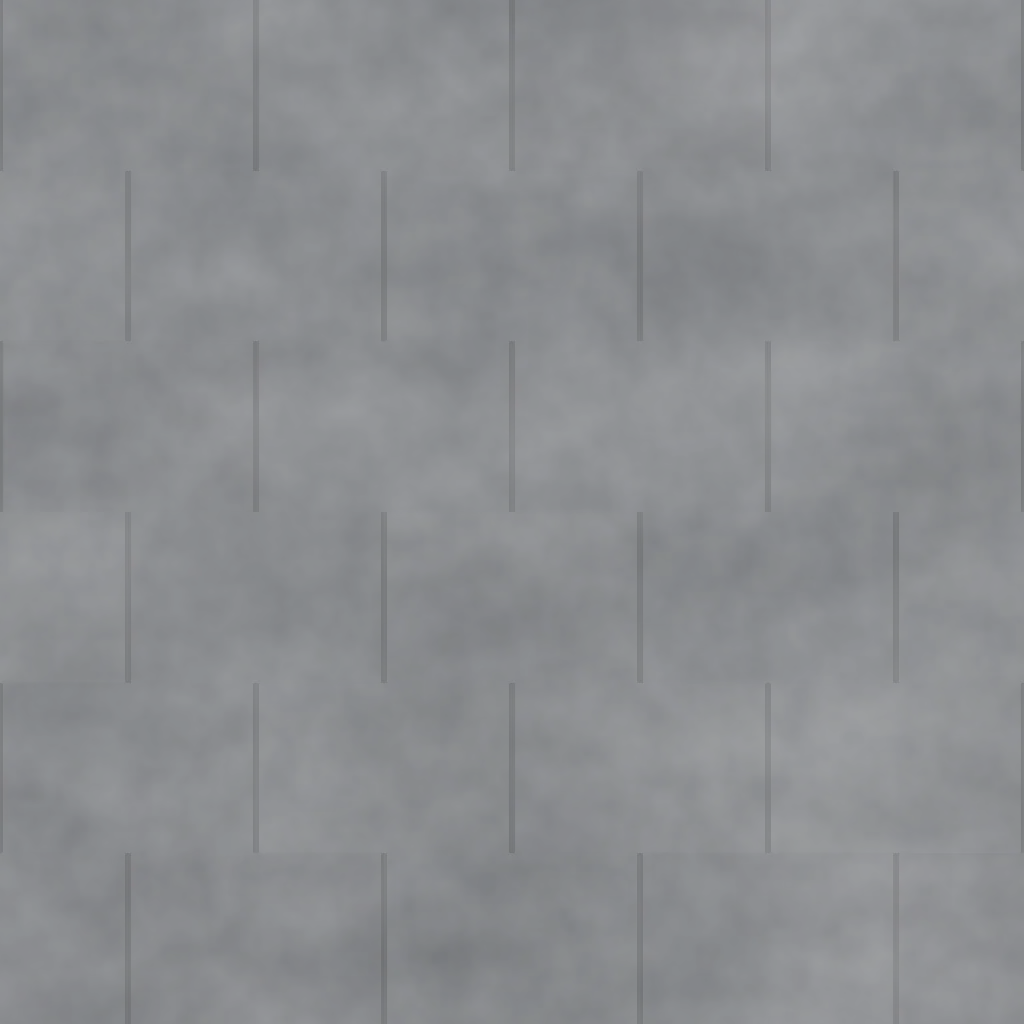
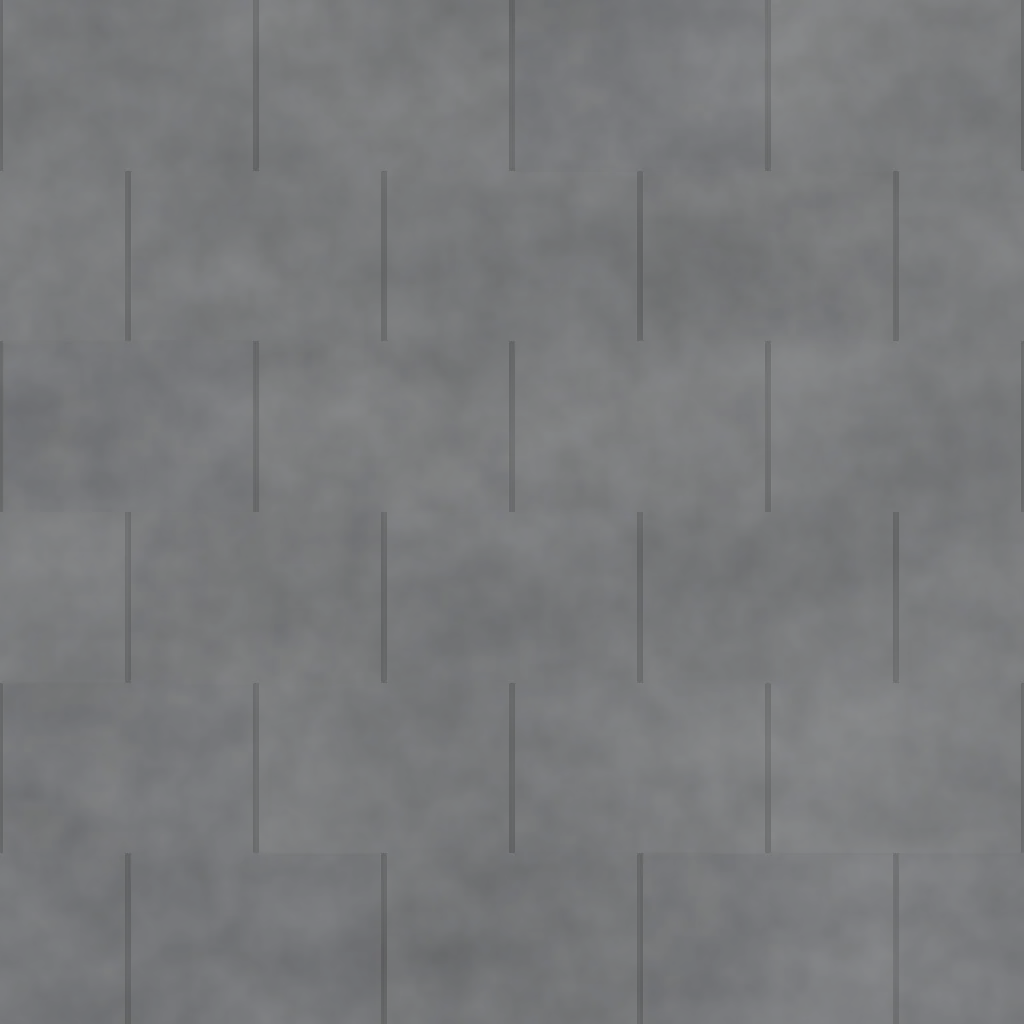
Reitweg 25 model: sky-light volume, neutral roofs, lined roof walls
- Replace per-vertex sky visibility with a 0.5 m SH probe volume baked on the GPU (no geometry changes, no seams)
- Desaturate environment sky and add ground bounce so shade reads neutral, not blue
- Regenerate slate roof texture in neutral grey with rougher finish
- Line sloped roof walls with plaster on the room side
- Smaller, denser leaf cards
- Upstairs eye-level view leans out of the open roof window instead of sitting on the glass

Claude-Session: https://claude.ai/code/session_011BLuECxSQ2TbTvGPyscWnK

Changed region(s): [[0.75, 0.0, 0.7812, 0.0312]]

diff --git a/projects/2026-09-reitweg-25/lib/house-model/sky-visibility.ts b/projects/2026-09-reitweg-25/lib/house-model/sky-visibility.ts
@@ -1,119 +1,102 @@
 import * as T from 'three';
-import {TessellateModifier} from 'three/addons/modifiers/TessellateModifier.js';
 import {addShaderFeature,after,materialsOf} from './shader-features';
 
-/** Precomputed sky light for the house. For each of 48 directions the building is drawn
- * into a depth map; every vertex then tests whether it sees the sky that way, weighted by
- * the cosine to its normal. The sum lives in a texture that materials read per vertex, so
- * rooms under a roof receive less sky light than a terrace, and corners less than a floor's
- * centre. Direct sun and its shadows stay live; this replaces only sky (image-based) light. */
-const DIRECTIONS=48,PER_FRAME=8,EXTENT=46,MAP=2048,WIDTH=2048;
-const AREA=new T.Box3(new T.Vector3(-42,-4,-30),new T.Vector3(34,12,40));
+/** Precomputed sky light around the house. A 0.5 m grid of probes covers the buildings;
+ * for 48 directions the building is drawn into a depth map and every probe records whether
+ * it sees the sky that way. Each probe keeps that visibility as a constant plus a direction
+ * (first-order spherical harmonics), so a surface receives sky light according to its
+ * normal: a floor under a roof far less than a terrace, a wall beside a window more than
+ * one facing a corridor. Direct sun and its shadows stay live; this scales only sky light.
+ * Geometry is untouched, so there are no seams or cracks. */
+const DIRECTIONS=48,PER_FRAME=6,CELL=.5,MAP=2048;
+const BOX=new T.Box3(new T.Vector3(-27,-3,-11),new T.Vector3(8,8.5,21));
 // Light bounced between walls, floors and furniture keeps enclosed rooms from reading as black.
-const BOUNCE=.2;
+const BOUNCE=.18;
 
-export function bakeSkyVisibility(renderer:T.WebGLRenderer,batches:T.Mesh[]){
- const receivers=batches.filter(b=>{
-  const box=b.geometry.boundingBox;if(!box||!AREA.intersectsBox(box))return false;
-  return materialsOf(b).every(m=>m instanceof T.MeshStandardMaterial&&!m.transparent&&m.userData.photo!=='lawn');
- });
- // Long edges get extra vertices so light can vary across a floor or wall.
- const tessellate=new TessellateModifier(.9,6);
- for(const b of receivers){
-  const box=b.geometry.boundingBox!,extent=box.getSize(new T.Vector3());
-  if(Math.max(extent.x,extent.y,extent.z)<1.2)continue;
-  const g=tessellate.modify(b.geometry);g.computeBoundingBox();g.computeBoundingSphere();b.geometry.dispose();b.geometry=g;
+export function bakeSkyVisibility(renderer:T.WebGLRenderer,occluders:T.Mesh[],receivers:T.Object3D[]){
+ const size=BOX.getSize(new T.Vector3()),nx=Math.round(size.x/CELL),ny=Math.round(size.y/CELL),nz=Math.round(size.z/CELL);
+ // Texture axes: width = x, height = z, layers = y.
+ const volumes=[0,1].map(()=>{const v=new T.WebGL3DRenderTarget(nx,nz,ny,{type:T.HalfFloatType,depthBuffer:false});v.texture.minFilter=v.texture.magFilter=T.LinearFilter;v.texture.wrapS=v.texture.wrapT=v.texture.wrapR=T.ClampToEdgeWrapping;return v;});
+ const probes=new Float32Array(nx*ny*nz*3),cells=new Float32Array(nx*ny*nz*2);
+ for(let j=0,k=0;j<ny;j++)for(let z=0;z<nz;z++)for(let x=0;x<nx;x++,k++){
+  probes.set([BOX.min.x+(x+.5)*CELL,BOX.min.y+(j+.5)*CELL,BOX.min.z+(z+.5)*CELL],k*3);cells.set([x,z],k*2);
  }
- const count=receivers.reduce((n,b)=>n+b.geometry.attributes.position.count,0),height=Math.max(1,Math.ceil(count/WIDTH));
- const positions=new Float32Array(count*3),normals=new Float32Array(count*3),texels=new Float32Array(count*2);
- let offset=0;
- for(const b of receivers){
-  const p=b.geometry.attributes.position,n=b.geometry.attributes.normal,t=new Float32Array(p.count*2);
-  b.updateMatrixWorld();const nm=new T.Matrix3().getNormalMatrix(b.matrixWorld),v=new T.Vector3();
-  for(let i=0;i<p.count;i++){
-   const k=offset+i;t[i*2]=k%WIDTH;t[i*2+1]=Math.floor(k/WIDTH);texels.set([t[i*2],t[i*2+1]],k*2);
-   v.fromBufferAttribute(p,i).applyMatrix4(b.matrixWorld);positions.set([v.x,v.y,v.z],k*3);
-   v.fromBufferAttribute(n,i).applyMatrix3(nm).normalize();normals.set([v.x,v.y,v.z],k*3);
-  }
-  b.geometry.setAttribute('skyTexel',new T.BufferAttribute(t,2));
-  offset+=p.count;
- }
- const points=new T.BufferGeometry();
- points.setAttribute('position',new T.BufferAttribute(positions,3));points.setAttribute('normal',new T.BufferAttribute(normals,3));points.setAttribute('skyTexel',new T.BufferAttribute(texels,2));
- const results=[0,1].map(()=>new T.WebGLRenderTarget(WIDTH,height,{type:T.HalfFloatType,depthBuffer:false,minFilter:T.NearestFilter,magFilter:T.NearestFilter}));
+ const grid=new T.BufferGeometry();grid.setAttribute('position',new T.BufferAttribute(probes,3));grid.setAttribute('cell',new T.BufferAttribute(cells,2));
  const depth=new T.WebGLRenderTarget(MAP,MAP,{depthTexture:new T.DepthTexture(MAP,MAP,T.FloatType)});
- const eye=new T.OrthographicCamera(-EXTENT,EXTENT,EXTENT,-EXTENT,1,260);eye.layers.set(2);
- const center=AREA.getCenter(new T.Vector3()),blocker=new T.MeshBasicMaterial({colorWrite:false,side:T.DoubleSide});
+ const extent=size.length()/2+1,eye=new T.OrthographicCamera(-extent,extent,extent,-extent,1,extent*2+60);eye.layers.set(2);
+ const center=BOX.getCenter(new T.Vector3()),blocker=new T.MeshBasicMaterial({colorWrite:false,side:T.DoubleSide});
  const accumulate=new T.ShaderMaterial({
-  uniforms:{depthMap:{value:depth.depthTexture},lightMatrix:{value:new T.Matrix4()},direction:{value:new T.Vector3()},resolution:{value:new T.Vector2(WIDTH,height)}},
-  vertexShader:`attribute vec2 skyTexel;uniform mat4 lightMatrix;uniform vec2 resolution;uniform vec3 direction;varying vec3 vLight;varying float vWeight;
-   void main(){
-    vec4 l=lightMatrix*vec4(position+normal*0.06,1.0);vLight=l.xyz/l.w*0.5+0.5;
-    vWeight=max(dot(normal,direction),0.0);
-    gl_Position=vec4((skyTexel+0.5)/resolution*2.0-1.0,0.0,1.0);gl_PointSize=1.0;
-   }`,
-  fragmentShader:`uniform sampler2D depthMap;varying vec3 vLight;varying float vWeight;
+  uniforms:{depthMap:{value:depth.depthTexture},lightMatrix:{value:new T.Matrix4()},direction:{value:new T.Vector3()},resolution:{value:new T.Vector2(nx,nz)}},
+  vertexShader:`attribute vec2 cell;uniform mat4 lightMatrix;uniform vec2 resolution;varying vec3 vLight;
+   void main(){vec4 l=lightMatrix*vec4(position,1.0);vLight=l.xyz/l.w*0.5+0.5;gl_Position=vec4((cell+0.5)/resolution*2.0-1.0,0.0,1.0);gl_PointSize=1.0;}`,
+  fragmentShader:`uniform sampler2D depthMap;uniform vec3 direction;varying vec3 vLight;
    void main(){
     bool inside=all(greaterThan(vLight.xy,vec2(0.0)))&&all(lessThan(vLight.xy,vec2(1.0)));
-    float lit=(!inside||vLight.z<=texture2D(depthMap,vLight.xy).r+0.0015)?1.0:0.0;
-    gl_FragColor=vec4(lit*vWeight,vWeight,0.0,1.0);
+    float lit=(!inside||vLight.z<=texture2D(depthMap,vLight.xy).r+0.001)?1.0:0.0;
+    gl_FragColor=vec4(lit,lit*direction);
    }`,
-  blending:T.CustomBlending,blendEquation:T.AddEquation,blendSrc:T.OneFactor,blendDst:T.OneFactor,depthTest:false,depthWrite:false,
+  blending:T.CustomBlending,blendEquation:T.AddEquation,blendSrc:T.OneFactor,blendDst:T.OneFactor,blendEquationAlpha:T.AddEquation,blendSrcAlpha:T.OneFactor,blendDstAlpha:T.OneFactor,depthTest:false,depthWrite:false,
  });
- const cloud=new T.Points(points,accumulate);cloud.frustumCulled=false;
- const pointScene=new T.Scene();pointScene.add(cloud);
- const pointCamera=new T.OrthographicCamera(-1,1,1,-1,0,1);
+ const cloud=new T.Points(grid,accumulate);cloud.frustumCulled=false;
+ const pointScene=new T.Scene();pointScene.add(cloud);const pointCamera=new T.OrthographicCamera(-1,1,1,-1,0,1);
  const directions=Array.from({length:DIRECTIONS},(_,i)=>{const y=1-2*(i+.5)/DIRECTIONS,r=Math.sqrt(1-y*y),a=i*2.399963;return new T.Vector3(Math.cos(a)*r,y,Math.sin(a)*r);});
- const uniform={value:results[0].texture as T.Texture},floor={value:BOUNCE};
+ const uniforms={uSkyVolume:{value:volumes[0].texture as T.Texture},uSkyMin:{value:BOX.min.clone()},uSkySize:{value:size.clone()},uSkyReady:{value:0},uSkyBounce:{value:BOUNCE}};
  const patched=new Set<T.Material>();
- for(const b of receivers)for(const m of materialsOf(b)){
-  if(patched.has(m))continue;patched.add(m);
+ for(const root of receivers)root.traverse(o=>{for(const m of materialsOf(o)){
+  if(patched.has(m)||!(m instanceof T.MeshStandardMaterial)||m.transparent)continue;patched.add(m);
   addShaderFeature(m,{key:'sky-visibility',compile:shader=>{
-   shader.uniforms.uSkyVisibility=uniform;shader.uniforms.uSkyFloor=floor;
-   shader.vertexShader='attribute vec2 skyTexel;uniform sampler2D uSkyVisibility;uniform float uSkyFloor;varying float vSkyVisibility;\n'+after(shader.vertexShader,'begin_vertex',`
-    vSkyVisibility=1.0;
-    if(skyTexel.x>=0.0){vec4 s=texelFetch(uSkyVisibility,ivec2(skyTexel),0);if(s.g>0.0)vSkyVisibility=mix(uSkyFloor,1.0,clamp(s.r/s.g,0.0,1.0));}`);
-   shader.fragmentShader='varying float vSkyVisibility;\n'+after(shader.fragmentShader,'lights_fragment_maps','iblIrradiance*=vSkyVisibility;irradiance*=vSkyVisibility;radiance*=mix(1.0,vSkyVisibility,0.85);');
+   Object.assign(shader.uniforms,uniforms);
+   shader.vertexShader='varying vec3 vSkyWorld;\n'+after(shader.vertexShader,'project_vertex',`
+    vec4 skyWorld=vec4(transformed,1.0);
+    #ifdef USE_INSTANCING
+     skyWorld=instanceMatrix*skyWorld;
+    #endif
+    vSkyWorld=(modelMatrix*skyWorld).xyz;`);
+   shader.fragmentShader=`uniform highp sampler3D uSkyVolume;uniform vec3 uSkyMin;uniform vec3 uSkySize;uniform float uSkyReady;uniform float uSkyBounce;varying vec3 vSkyWorld;\n`+after(shader.fragmentShader,'lights_fragment_maps',`
+    {
+     vec3 skyN=inverseTransformDirection(normal,viewMatrix);
+     vec3 skyUvw=(vSkyWorld+skyN*0.35-uSkyMin)/uSkySize;
+     float skyVisible=1.0;
+     if(uSkyReady>0.5&&all(greaterThan(skyUvw,vec3(0.0)))&&all(lessThan(skyUvw,vec3(1.0)))){
+      vec4 s=texture(uSkyVolume,skyUvw.xzy)/${DIRECTIONS.toFixed(1)};
+      skyVisible=mix(uSkyBounce,1.0,clamp(s.r+2.0*dot(s.gba,skyN),0.0,1.0));
+     }
+     iblIrradiance*=skyVisible;irradiance*=skyVisible;radiance*=mix(1.0,skyVisible,0.85);
+    }`);
   }});
- }
- // Any other mesh sharing a patched material reads "open sky".
- const fillOthers=(root:T.Object3D)=>root.traverse(o=>{
-  const mesh=o as T.Mesh;if(!mesh.isMesh||mesh.geometry.attributes.skyTexel)return;
-  if(materialsOf(mesh).some(m=>patched.has(m)))mesh.geometry.setAttribute('skyTexel',new T.BufferAttribute(new Float32Array(mesh.geometry.attributes.position.count*2).fill(-1),2));
- });
- let sceneRoot:T.Object3D|undefined=batches[0];while(sceneRoot?.parent)sceneRoot=sceneRoot.parent;if(sceneRoot)fillOthers(sceneRoot);
- const occluders=batches.filter(b=>materialsOf(b).every(m=>!m.transparent&&m.userData.photo!=='lawn'));
+ }});
  for(const o of occluders)o.layers.enable(2);
+ let world:T.Object3D|undefined=occluders[0];while(world?.parent)world=world.parent;
  let step=-1,write=1;
  const run=()=>{
-  if(!sceneRoot)return;
-  const world=sceneRoot as T.Scene;
-  const previousTarget=renderer.getRenderTarget(),previousAuto=renderer.autoClear,clear=renderer.getClearColor(new T.Color()),alpha=renderer.getClearAlpha(),shadowAuto=renderer.shadowMap.autoUpdate,needs=renderer.shadowMap.needsUpdate;
-  const override=world.overrideMaterial,background=world.background,fog=world.fog;
-  renderer.shadowMap.autoUpdate=false;renderer.shadowMap.needsUpdate=false;
-  if(step===0){renderer.setRenderTarget(results[write]);renderer.setClearColor(0x000000,0);renderer.clear(true,false,false);}
+  if(!(world instanceof T.Scene))return;
+  const target=renderer.getRenderTarget(),auto=renderer.autoClear,clear=renderer.getClearColor(new T.Color()),alpha=renderer.getClearAlpha();
+  const shadowNeeds=renderer.shadowMap.needsUpdate,override=world.overrideMaterial,background=world.background,fog=world.fog;
+  renderer.shadowMap.needsUpdate=false;renderer.setClearColor(0x000000,0);
+  if(step===0)for(let j=0;j<ny;j++){renderer.setRenderTarget(volumes[write],j);renderer.clear(true,false,false);}
   for(let i=0;i<PER_FRAME&&step<DIRECTIONS;i++,step++){
    const d=directions[step];
-   eye.position.copy(center).addScaledVector(d,130);eye.lookAt(center);eye.updateMatrixWorld();
+   eye.position.copy(center).addScaledVector(d,extent+30);eye.lookAt(center);eye.updateMatrixWorld();
    world.overrideMaterial=blocker;world.background=null;world.fog=null;
    renderer.setRenderTarget(depth);renderer.autoClear=true;renderer.render(world,eye);
    world.overrideMaterial=override;world.background=background;world.fog=fog;
    accumulate.uniforms.lightMatrix.value.multiplyMatrices(eye.projectionMatrix,eye.matrixWorldInverse);accumulate.uniforms.direction.value.copy(d);
-   renderer.setRenderTarget(results[write]);renderer.autoClear=false;renderer.render(pointScene,pointCamera);
+   renderer.autoClear=false;
+   for(let j=0;j<ny;j++){grid.setDrawRange(j*nx*nz,nx*nz);renderer.setRenderTarget(volumes[write],j);renderer.render(pointScene,pointCamera);}
   }
-  renderer.setRenderTarget(previousTarget);renderer.autoClear=previousAuto;renderer.setClearColor(clear,alpha);
-  renderer.shadowMap.autoUpdate=shadowAuto;renderer.shadowMap.needsUpdate=needs;
+  grid.setDrawRange(0,Infinity);
+  renderer.setRenderTarget(target);renderer.autoClear=auto;renderer.setClearColor(clear,alpha);renderer.shadowMap.needsUpdate=shadowNeeds;
  };
  return {
-  vertices:count,
+  probes:nx*ny*nz,
   request:()=>{step=0;},
   /** Advances a bake a few directions per frame; true when a finished result was swapped in. */
   update:()=>{
    if(step<0)return false;
    run();
    if(step<DIRECTIONS)return false;
-   uniform.value=results[write].texture;write=1-write;step=-1;return true;
+   uniforms.uSkyVolume.value=volumes[write].texture;uniforms.uSkyReady.value=1;write=1-write;step=-1;return true;
   },
-  dispose:()=>{results.forEach(r=>r.dispose());depth.dispose();points.dispose();accumulate.dispose();blocker.dispose();},
+  dispose:()=>{volumes.forEach(v=>v.dispose());depth.dispose();grid.dispose();accumulate.dispose();blocker.dispose();},
  };
 }

diff --git a/projects/2026-09-reitweg-25/lib/house-model/lighting.ts b/projects/2026-09-reitweg-25/lib/house-model/lighting.ts
@@ -55,8 +55,16 @@ export type LightReading=ReturnType<typeof sunStudyReading>&{exposure:number;dus
 export function createLighting(renderer:T.WebGLRenderer,scene:T.Scene,root:T.Object3D,options:{shadowSize:number}){
  const sky=new Sky();sky.name='calculated-sun-sky';sky.userData.skipPhotographic=true;sky.scale.setScalar(20000);sky.frustumCulled=false;scene.add(sky);
  const envSky=new Sky();envSky.scale.setScalar(20000);const envScene=new T.Scene();envScene.add(envSky);
+ // Image light: skylight is less saturated than the visible sky, and the ground below the
+ // horizon returns warm, green-tinted bounce light instead of Preetham's dark lower sphere.
+ const ground={value:new T.Color()},saturation={value:.55};
  for(const [s,disc] of [[sky,1],[envSky,0]] as const){
-  s.material.onBeforeCompile=shader=>{shader.fragmentShader=shader.fragmentShader.replace('gl_FragColor = vec4( texColor, 1.0 );',nightSky+'\ngl_FragColor = vec4( texColor, 1.0 );');};
+  const env=disc===0;
+  s.material.onBeforeCompile=shader=>{
+   if(env){shader.uniforms.uGround=ground;shader.uniforms.uEnvSaturation=saturation;shader.fragmentShader='uniform vec3 uGround;uniform float uEnvSaturation;\n'+shader.fragmentShader;}
+   shader.fragmentShader=shader.fragmentShader.replace('gl_FragColor = vec4( texColor, 1.0 );',nightSky+(env?'\ntexColor=mix(vec3(dot(texColor,vec3(0.2126,0.7152,0.0722))),texColor,uEnvSaturation);texColor=mix(texColor,uGround,smoothstep(0.0,-0.06,direction.y));':'')+'\ngl_FragColor = vec4( texColor, 1.0 );');
+  };
+  s.material.customProgramCacheKey=()=>env?'reitweg-env-sky':'reitweg-sky';
   const u=s.material.uniforms;u.turbidity.value=SKY.turbidity;u.rayleigh.value=SKY.rayleigh;u.mieCoefficient.value=SKY.mie;u.mieDirectionalG.value=SKY.g;u.showSunDisc.value=disc;u.cloudCoverage.value=SKY.clouds;u.cloudDensity.value=.35;}
  const cubeTarget=new T.WebGLCubeRenderTarget(128,{type:T.HalfFloatType}),cubeCamera=new T.CubeCamera(.1,40000,cubeTarget);
  const pmrem=new T.PMREMGenerator(renderer);let envTarget:T.WebGLRenderTarget|null=null,envDirty=true,envAt=0;
@@ -100,6 +108,8 @@ export function createLighting(renderer:T.WebGLRenderer,scene:T.Scene,root:T.Obj
   sun.position.copy(sun.target.position).addScaledVector(sunVector,160);
   sun.visible=sun.intensity>0;
   const irradiance=luminance(skyIrradiance(sunVector)),key=irradiance+sun.intensity*Math.max(0,sunVector.y);
+  // Lawn, paving and planting average to a mid-dark, green-leaning albedo.
+  ground.value.setRGB(.12,.16,.08).multiplyScalar(key/Math.PI);
   // Partial adaptation: dusk reads as dusk, night stays legible.
   const exposure=clamp(NOON_EXPOSURE*Math.pow(NOON_KEY/Math.max(key,1e-6),.72),.02,30);
   const daylight=T.MathUtils.smoothstep(r.elevation,-8,10),dusk=1-T.MathUtils.smoothstep(r.elevation,-3,7);

diff --git a/projects/2026-09-reitweg-25/lib/house-model/build-model.ts b/projects/2026-09-reitweg-25/lib/house-model/build-model.ts
@@ -177,6 +177,13 @@ export function buildHouseModel(realistic=false,setting?:T.Object3D,foliageIn?:R
    const face=new T.Group();face.position.set(a[0],0,a[1]);face.rotation.y=-Math.atan2(dz,dx);g.add(face);
    for(const [x,y,w,h] of windows){const u=(x-a[0])/dx*len;const hole=new T.Path();hole.moveTo(u-w/2,y);hole.lineTo(u-w/2,y+h);hole.lineTo(u+w/2,y+h);hole.lineTo(u+w/2,y);hole.closePath();shape.holes.push(hole);box(face,u,y,0,w,h,.05,glass);for(const offset of [-w/2,w/2])box(face,u+offset,y,0,.05,h,.25,m.dark);for(const dy of [0,h])box(face,u,y+dy,0,w,.05,.25,m.dark);}
    const wallGeometry=new T.ExtrudeGeometry(shape,{depth:.21,bevelEnabled:false});wallGeometry.translate(0,0,-.105);const mesh=add(wallGeometry,m.wall,face,kind==='guest'?'guest':'main');mesh.name=kind+'-roof-wall-'+index;
+   // Rooms under the roof are plastered: line the inner face so the cladding never shows between wall head and ceiling.
+   // The room side is whichever side of the face's midpoint lies inside the footprint (the guest wing is not convex).
+   const probe=[(a[0]+b[0])/2-dz/len*.3,(a[1]+b[1])/2+dx/len*.3];let inside=false;
+   for(let i=0,j=local.length-1;i<local.length;j=i++){const [xi,zi]=local[i],[xj,zj]=local[j];if((zi>probe[1])!==(zj>probe[1])&&probe[0]<(xj-xi)*(probe[1]-zi)/(zj-zi)+xi)inside=!inside;}
+   const inward=inside?1:-1,lining=new T.ShapeGeometry(shape);
+   if(inward<0){const idx=lining.index!;for(let t=0;t<idx.count;t+=3){const k=idx.getX(t+1);idx.setX(t+1,idx.getX(t+2));idx.setX(t+2,k);}const n=lining.attributes.normal;for(let v=0;v<n.count;v++)n.setZ(v,-1);}
+   lining.translate(0,0,inward*.107);const inner=add(lining,m.plaster,face);inner.castShadow=false;inner.name=kind+'-roof-wall-lining-'+index;
   }
   // The east roof has three groups and one high window; the photos rule out an even row.
   const skylights=kind==='link'?[]:roofSkylights(kind);

diff --git a/projects/2026-09-reitweg-25/lib/house-model/foliage.ts b/projects/2026-09-reitweg-25/lib/house-model/foliage.ts
@@ -63,7 +63,7 @@ function archetype(kind:TreeKind,far:boolean,seed:number){
   clusters.push(tip,mid.clone().lerp(tip,.4));
  }
  for(let i=0;i<(far?8:26);i++){const th=r()*Math.PI*2,y=r()*1.8-.9,rad=Math.sqrt(1-y*y)*(.45+r()*.5);clusters.push(new T.Vector3(Math.cos(th)*rad*R,crown.y+y*R*.85*flat,Math.sin(th)*rad*R));}
- const out={p:[] as number[],n:[] as number[],uv:[] as number[],c:[] as number[]},count=far?110:kind==='pine'?520:620,cell=cells[kind];
+ const out={p:[] as number[],n:[] as number[],uv:[] as number[],c:[] as number[]},count=far?110:kind==='pine'?900:1100,cell=cells[kind];
  for(let i=0;i<count;i++){
   const c=clusters[i%clusters.length],spread=R*(far?.42:.34);
   const th=r()*Math.PI*2,y=r()*2-1,rad=Math.sqrt(1-y*y)*Math.cbrt(r());
@@ -73,7 +73,8 @@ function archetype(kind:TreeKind,far:boolean,seed:number){
   const shade=.7+r()*.36,tint=new T.Color(shade,shade*(.96+r()*.08),shade*(.9+r()*.12));
   // Inner cards sit in shade; a darker tint stands in for self-shadowing within the crown.
   tint.multiplyScalar(.6+.4*T.MathUtils.clamp(center.distanceTo(crown)/R,0,1));
-  card(center,normal,(far?2.2:1.05)*(.8+r()*.45),r()*Math.PI*2,cell,r()<.5,crown,tint,out);
+  // Near cards span about 0.6 m, so drawn leaves read at a natural 6–10 cm.
+  card(center,normal,(far?2.2:.62)*(.8+r()*.45),r()*Math.PI*2,cell,r()<.5,crown,tint,out);
  }
  const leaves=new T.BufferGeometry();
  leaves.setAttribute('position',new T.Float32BufferAttribute(out.p,3));leaves.setAttribute('normal',new T.Float32BufferAttribute(out.n,3));

diff --git a/projects/2026-09-reitweg-25/lib/house-model/experience-data.ts b/projects/2026-09-reitweg-25/lib/house-model/experience-data.ts
@@ -9,7 +9,7 @@ export const places:Record<Place,{label:string;short:string;position:[number,num
  living:{label:'In the family room',short:'Family room',position:at(991,727,1.65),target:at(1190,810,1.4),photo:'IMG_1457.jpg',caption:'Standing height · looking toward the garden',interior:true},
  dining:{label:'A seat at the table',short:'Dining',position:at(1100,611,1.22),target:at(1230,593,1.45),photo:'94D23FDE-62F0-49DF-8A1F-A4C216E61825_1_105_c.jpg',caption:'Seated height · looking east',interior:true},
  kitchen:{label:'Morning in the kitchen',short:'Kitchen',position:at(912,350,1.65),target:at(735,260,1.35),photo:'A3DBBB95-78B2-4B2E-B973-6D22C9FC98CE_4_5005_c.jpg',caption:'Standing height · looking northwest',interior:true},
- upstairs:{label:'The upstairs garden view',short:'Upstairs',position:[4.45,4.62,-1.5],target:[80,4.1,7],photo:'setting-upstairs-horizon.jpg',caption:'By the roof window · meadow and distant Alps',interior:true},
+ upstairs:{label:'The upstairs garden view',short:'Upstairs',position:[5.1,4.5,-1.5],target:[80,4.1,7],photo:'setting-upstairs-horizon.jpg',caption:'Leaning out of the roof window · meadow and distant Alps',interior:true},
 };
 export type CaptureState={
  breeze:boolean;sound:boolean;render:'idle'|'preparing'|'refining'|'panorama';samples:number;

diff --git a/projects/2026-09-reitweg-25/lib/house-model/viewer.ts b/projects/2026-09-reitweg-25/lib/house-model/viewer.ts
@@ -86,7 +86,7 @@ export function createHouseViewer(host:HTMLDivElement,options:ViewerOptions){
  const pickables:T.Object3D[]=[...batches.meshes.filter(b=>b.userData.region)];
  model.root.traverse(o=>{if(o instanceof T.InstancedMesh&&o.userData.region)pickables.push(o);});
  let level:Level='exterior',renovations=renovationState(),place:Place|undefined;
- const bake=realistic&&tier.skyBake?bakeSkyVisibility(renderer,batches.meshes):undefined;
+ const bake=realistic&&tier.skyBake?bakeSkyVisibility(renderer,batches.meshes.filter(b=>[b.material].flat().every(m=>!m.transparent&&m.userData.photo!=='lawn')),[model.root,stage]):undefined;
  const applyState=()=>{
   model.setLevel(level);model.setRenovations(renovations);batches.sync(model.stateOf(level,renovations));
   stage.visible=level!=='basement';renderer.shadowMap.needsUpdate=true;
